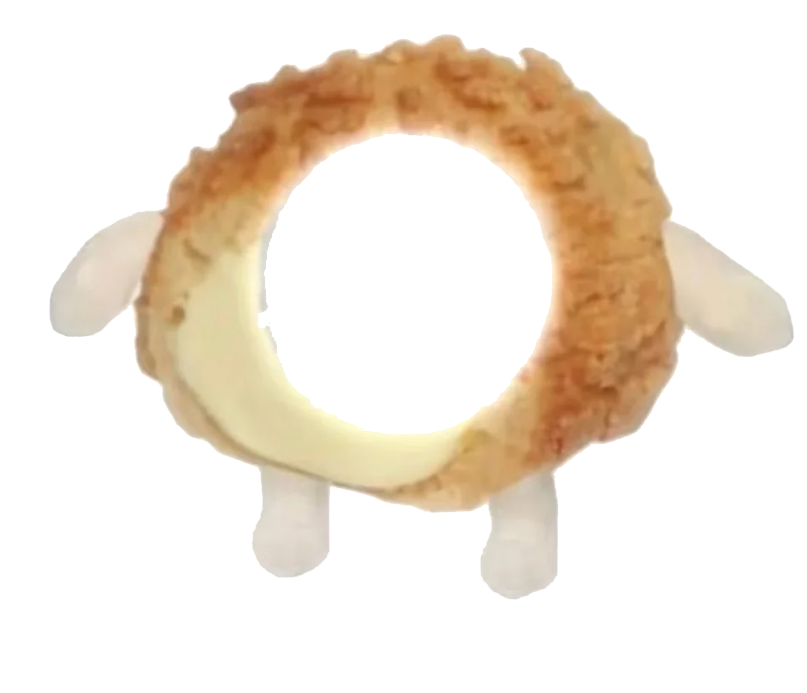
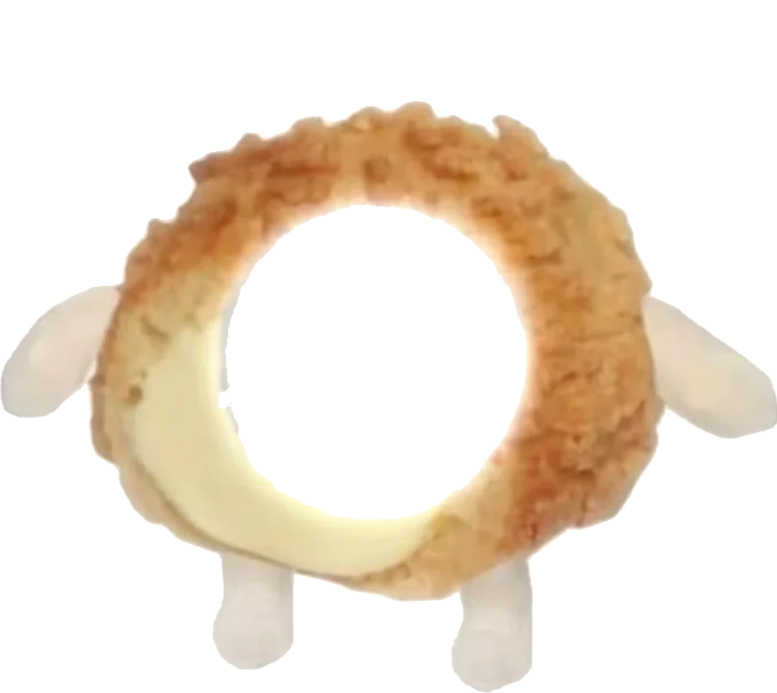
照片替换角色

diff --git a/1.1demo-king_of_python_test_develop.py b/1.1demo-king_of_python_test_develop.py
@@ -53,44 +53,60 @@ except Exception:
     frame2_surf = None
 
 
-def compose_head(frame_surf, photo_surf, inner_padding=24):
+def compose_head(frame_surf, photo_surf, inner_padding=24, frame_scale=1.15, photo_scale=0.6, x_offset=0, y_offset=-12):
     """Compose a head sprite by placing the circular photo into the frame's hole.
 
     frame_surf: pygame.Surface (with alpha), photo_surf: pygame.Surface
+    inner_padding: pixels to leave around the inner circular hole (bigger -> smaller hole)
+    frame_scale: multiply frame size by this factor before composing (>
+        1.0 makes the frame visually larger)
+    photo_scale: multiply the hole diameter by this factor to make the photo
+        smaller than the hole (<=1.0). Useful to leave visible frame border.
+    x_offset, y_offset: adjust photo placement inside the frame (pixels).
     Returns a new Surface or None on failure.
-    inner_padding: pixels to leave around the inner circular hole.
     """
     if not frame_surf or not photo_surf:
         return None
     try:
         fw, fh = frame_surf.get_size()
-        # We'll assume inner circle diameter is min(frame size) - inner_padding*2
-        diameter = max(8, min(fw, fh) - inner_padding * 2)
-        # scale photo to diameter
-        photo_scaled = pygame.transform.smoothscale(photo_surf, (diameter, diameter))
+        # optionally scale the decorative frame larger/smaller
+        if frame_scale != 1.0:
+            new_fw = max(1, int(fw * frame_scale))
+            new_fh = max(1, int(fh * frame_scale))
+            frame_scaled = pygame.transform.smoothscale(frame_surf, (new_fw, new_fh))
+        else:
+            new_fw, new_fh = fw, fh
+            frame_scaled = frame_surf
 
-        # create surface to hold composition
-        comp = pygame.Surface((fw, fh), pygame.SRCALPHA)
+        # inner circle diameter available for the photo (before photo_scale)
+        diameter = max(8, min(new_fw, new_fh) - inner_padding * 2)
+        # final photo diameter after applying photo_scale (photo_scale <= 1.0 shrinks photo)
+        photo_diameter = max(4, int(diameter * photo_scale))
 
-        # create masked photo surface same size as comp
-        photo_layer = pygame.Surface((fw, fh), pygame.SRCALPHA)
-        # center position
-        px = (fw - diameter) // 2
-        py = (fh - diameter) // 2
+        # scale photo to computed size
+        photo_scaled = pygame.transform.smoothscale(photo_surf, (photo_diameter, photo_diameter))
+
+        # create composition surface sized to the (possibly scaled) frame
+        comp = pygame.Surface((new_fw, new_fh), pygame.SRCALPHA)
+
+        # photo layer (same size as comp) - we'll blit the smaller photo centered with offsets
+        photo_layer = pygame.Surface((new_fw, new_fh), pygame.SRCALPHA)
+        px = (new_fw - photo_diameter) // 2 + x_offset
+        py = (new_fh - photo_diameter) // 2 + y_offset
         photo_layer.blit(photo_scaled, (px, py))
 
-        # mask with a filled circle to keep only circular area
-        mask = pygame.Surface((fw, fh), pygame.SRCALPHA)
+        # mask: keep the circular area (use original diameter, not the shrunken photo)
+        mask = pygame.Surface((new_fw, new_fh), pygame.SRCALPHA)
         mask.fill((0, 0, 0, 0))
-        center = (fw // 2, fh // 2)
+        center = (new_fw // 2 + x_offset, new_fh // 2 + y_offset)
         radius = diameter // 2
         pygame.draw.circle(mask, (255, 255, 255, 255), center, radius)
         # apply mask by multiplying alpha
         photo_layer.blit(mask, (0, 0), special_flags=pygame.BLEND_RGBA_MULT)
 
-        # blit masked photo then the frame on top
+        # blit masked photo then the scaled frame on top
         comp.blit(photo_layer, (0, 0))
-        comp.blit(frame_surf, (0, 0))
+        comp.blit(frame_scaled, (0, 0))
         return comp
     except Exception:
         return None
@@ -110,8 +126,8 @@ class Player:
     def __init__(self, x, y, color, controls, facing_right=True):
         self.x = x
         self.y = y
-        self.width = 60
-        self.height = 60
+        self.width = 80
+        self.height = 80
         self.color = color
         self.vel_x = 0
         self.vel_y = 0

diff --git a/King_Monica/face_login_demo.py b/King_Monica/face_login_demo.py
@@ -107,11 +107,28 @@ def capture_and_make_sprite(label: str) -> Optional[str]:
                     for i, (x, y, fw, fh) in enumerate(faces[:2]):
                         crop = frame[y:y+fh, x:x+fw]
                         sprite = cv2.resize(crop, (80, 80), interpolation=cv2.INTER_AREA)
-                        fname = f"Face{i+1}_{timestamp}.png"
-                        path = os.path.join(captures_dir, fname)
-                        cv2.imwrite(path, sprite)
-                        saved_paths.append(os.path.abspath(path))
-                        print(f"Captured face {i+1}: {path}")
+                        # create circular alpha mask and save as PNG with transparency
+                        try:
+                            import numpy as np
+                            h, w = sprite.shape[:2]
+                            mask = np.zeros((h, w), dtype=np.uint8)
+                            radius = min(w, h) // 2
+                            center = (w // 2, h // 2)
+                            cv2.circle(mask, center, radius, 255, -1)
+                            b, g, r = cv2.split(sprite)
+                            bgra = cv2.merge([b, g, r, mask])
+                            fname = f"Face{i+1}_{timestamp}.png"
+                            path = os.path.join(captures_dir, fname)
+                            cv2.imwrite(path, bgra)
+                            saved_paths.append(os.path.abspath(path))
+                            print(f"Captured face {i+1}: {path}")
+                        except Exception:
+                            # fallback to saving without alpha
+                            fname = f"Face{i+1}_{timestamp}.png"
+                            path = os.path.join(captures_dir, fname)
+                            cv2.imwrite(path, sprite)
+                            saved_paths.append(os.path.abspath(path))
+                            print(f"Captured face {i+1} (no alpha): {path}")
                     # return appropriate face based on label if possible
                     if 'Face1' in label:
                         saved_path = saved_paths[0]
@@ -129,11 +146,28 @@ def capture_and_make_sprite(label: str) -> Optional[str]:
                 crop = frame[y0:y0 + side, x0:x0 + side]
                 sprite = cv2.resize(crop, (80, 80), interpolation=cv2.INTER_AREA)
 
-                fname = f"{label}_{timestamp}.png"
-                path = os.path.join(captures_dir, fname)
-                cv2.imwrite(path, sprite)
-                saved_path = os.path.abspath(path)
-                print(f"Captured and saved: {saved_path}")
+                # save with circular alpha mask so the PNG is circular
+                try:
+                    import numpy as np
+                    h2, w2 = sprite.shape[:2]
+                    mask = np.zeros((h2, w2), dtype=np.uint8)
+                    radius = min(w2, h2) // 2
+                    center = (w2 // 2, h2 // 2)
+                    cv2.circle(mask, center, radius, 255, -1)
+                    b, g, r = cv2.split(sprite)
+                    bgra = cv2.merge([b, g, r, mask])
+                    fname = f"{label}_{timestamp}.png"
+                    path = os.path.join(captures_dir, fname)
+                    cv2.imwrite(path, bgra)
+                    saved_path = os.path.abspath(path)
+                    print(f"Captured and saved: {saved_path}")
+                except Exception:
+                    # fallback to saving without alpha
+                    fname = f"{label}_{timestamp}.png"
+                    path = os.path.join(captures_dir, fname)
+                    cv2.imwrite(path, sprite)
+                    saved_path = os.path.abspath(path)
+                    print(f"Captured and saved (no alpha): {saved_path}")
                 break
             if key == ord('q') or key == 27:  # 'q' or ESC
                 print("Capture cancelled by user")
